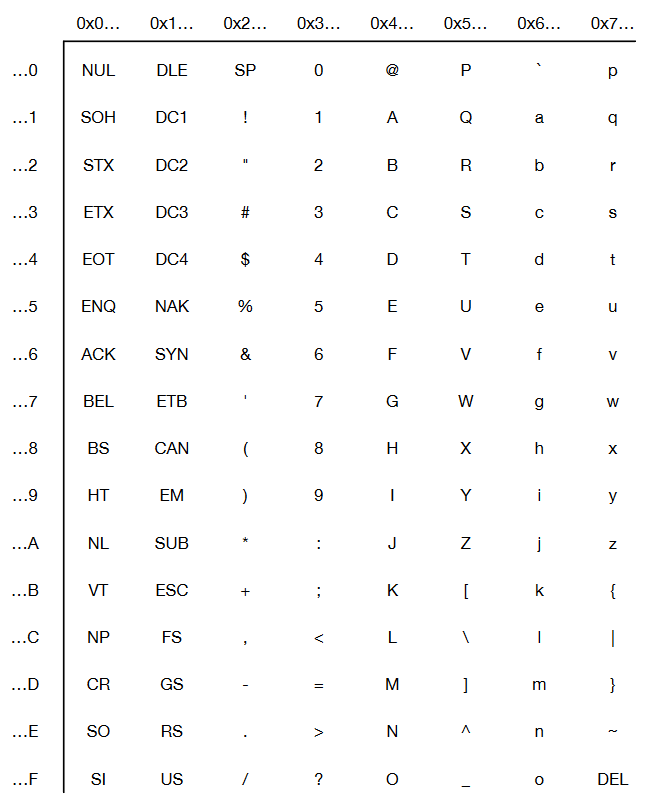
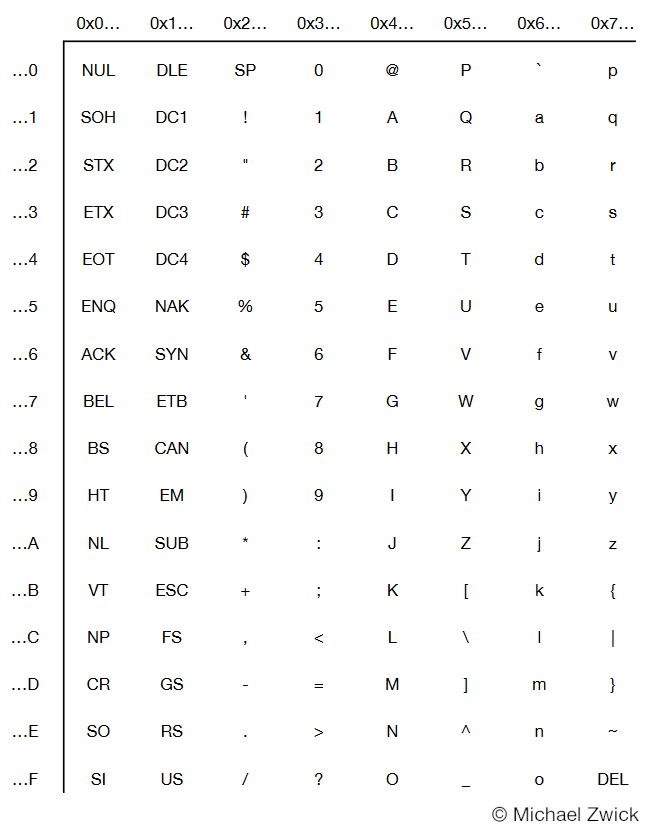
add copyright to images
+ formatting

+ change text in Übersetzungstabelle

+ update disclaimer

diff --git a/Computertechnik.tex b/Computertechnik.tex
@@ -11,9 +11,9 @@
 % Document Settings
 % ======================================================================
 
-% possible options: color/nocolor, english/ngerman, threecolumn
+% possible options: color/nocolor, english/german, threecolumn
 % defaults: color, english
-\documentclass[ngerman, threecolumn, 8pt]{latex4ei/latex4ei_sheet}
+\documentclass[german, threecolumn, 8pt]{latex4ei/latex4ei_sheet}
 
 % set document information
 \title{Computertechnik}
@@ -41,7 +41,6 @@
 % ======================================================================
 \begin{document}
 
-\lfoot{Nur zur persöhnlichen Verwendung!}
 
 \IfFileExists{git.id}{\input{git.id}}{}
 \ifdefined\GitRevision\mydate{\GitNiceDate\ (git \GitRevision)}\fi
@@ -50,7 +49,7 @@
 % ----------------------------------------------------------------------
 \maketitle   % requires ./img/Logo.pdf
 \\
-\textcolor{red}{\small Diese Formelsammlung ist für den privaten Gebrauch und das Selbststudium von Studierenden erstellt worden. Die Inhalte basieren auf Materialien des Lehrstuhls für Datenverarbeitung und sind ausschließlich zur Unterstützung des Lernens gedacht.}
+\textcolor{black}{\small In der Prüfung "Computertechnik und Programmieren"\ ist nur die unten angehängte Formelsammlung zulässig!}
 % Section
 % ----------------------------------------------------------------------
 \section{Zahlen und Zeichen}
@@ -98,7 +97,7 @@
 	\item Das Komma durch Anpassung des Exponenten $e-K$, verschieben, um das Format $1,f$ zu erhalten ($1,0001101 \cdot 2^4 \rightarrow e-K=4$) \\
 	\end{enumerate}
 \begin{sectionbox}
-	Definition (normalisiert): $v=(-1)^s \cdot 1,f \cdot 2^{e-K}$\\\\
+	Definition (normalisiert): $v=(-1)^s \cdot 1,f \cdot 2^{e-K}$\\
     \textbf{32 Bit:}
         \begin{itemize}\itemsep0pt
             \item $K=127$
@@ -113,7 +112,7 @@
             \item $e = 11$ Bit
             \item $f = 52$ Bit
         \end{itemize}
-	\textbf{Spezialfälle} (de-normalisiert):
+	\textbf{Spezialfälle} (de-normalisiert $v=(-1)^s \cdot 0,f \cdot 2^{e-K}$):
 	\begin{itemize}\itemsep0pt
 	\item 0: $e=0$; $f=0$
 	\item $+\infty$: $e=1\dots1$; $f=0$; $s=0$
@@ -151,7 +150,7 @@ Schnellere Berechnung der Summe aus zwei Summanden durch zusätzliche Logik zur 
 $c_i=g_i \lor (p_i \land g_{i-1}) \lor (p_i \land p_{i-1} \land g_{i-2}) \lor \dots$\\
 \subsection{Zustandsautomat}
 \begin{center}
-\includegraphics[width=.8\linewidth]{img/moore-automat.pdf}
+\includegraphics[width=.75\linewidth]{img/moore-automat.pdf}
 \end{center}
 %\begin{itemize}
 %\item Input: Eingangssignale in den Automaten
@@ -173,7 +172,7 @@ e f & Zst. & a b c d & Folgezst.\\
 \begin{sectionbox}
 \subsection{Universalrechner}
 \includegraphics[width=.9\linewidth]{img/Universalrechner.png} \\
-\textbf{Auch hier gilt:} Klammer \textit{vor} Potenz \& Wurzel \textit{vor} Punkt \textit{vor} Strich!
+\textbf{Auch hier gilt:} Klammer \textit{vor} Wurzel \textit{vor} Punkt \textit{vor} Strich!
 \begin{itemize}\itemsep0pt
 \item \textbf{K:} Konstante
 \item \textbf{D:} Ziel-Register
@@ -191,7 +190,7 @@ e f & Zst. & a b c d & Folgezst.\\
 \begin{sectionbox}
 \subsection{Übersetzungstabelle}
 \includegraphics[width=\linewidth]{img/Uebersetzungstabelle.png}
-Um Opcode zu erhalten erste Hex-Zahl links ablesen, zweite Hex-Zahl oben/unten ablesen (je nachdem ob Befehl in oberer oder unterer Zeile)\\
+Um Opcode zu erhalten den Befehl in der Tabelle suchen. Erste Hex-Zahl links ablesen, zweite Hex-Zahl (je nach Subzeile) oben oder unten ablesen.\\
 $I$: immideate (Direktoperand); $B$: backwards (bei Sprungbefehlen)
 \end{sectionbox}
 \end{minipage}
@@ -317,8 +316,8 @@ Der Zähler \texttt{TCNT$n$} wird mit der Frequenz $f=\frac{\text{clk}}{\text{Pr
 
 %Formelsammlung
 \newpage
-\lfoot{Nur zur persöhnlichen Verwendung!}
-\cfoot{Quelle: \href{mailto:ldv@ei.tum.de}{Lehrstuhl für Datenverarbeitung (LDV)}} % Setzt die rechte Fußzeile
+\lfoot{Formelsammlung aus der Prüfung}
+\cfoot{Quelle: Michael Zwick (\href{mailto:zwick@tum.de}{zwick@tum.de})} % Setzt die rechte Fußzeile
 \rfoot{Stand: Wintersemester 23/24 \qquad \thepage/\pageref{LastPage}} % Setzt die rechte Fußzeile
 \includepdf[pages=-, pagecommand={\thispagestyle{fancy}}]{./img/Formelsammlung.pdf}
 %\includepdf[pages=-]{./img/Formelsammlung.pdf}
